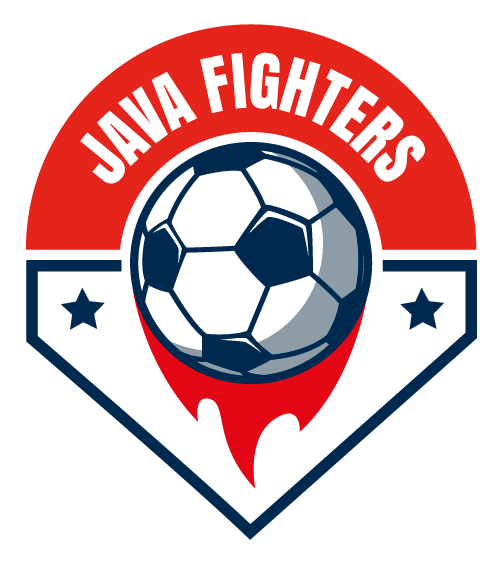
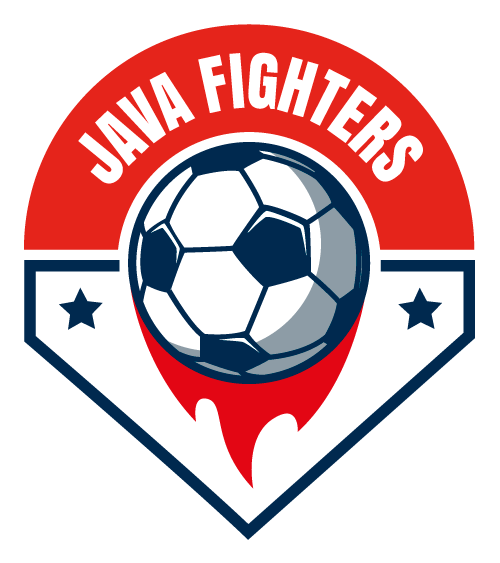
CSS restyling

diff --git a/public/style.css b/public/style.css
@@ -71,7 +71,7 @@ body {
 .main_logo {
 	display: block;
 	margin: 0 auto 10px;
-	width: 40%;
+	width: 35%;
 }
 
 .team_logo {
@@ -549,28 +549,92 @@ body {
 
 .logoTeamSmall {
 	width: 30%;
+	padding-left: 5%;
+	padding-right: 5%;
 }
 
-.ui-bar-b, .ui-page-theme-b .ui-bar-inherit, html .ui-bar-b .ui-bar-inherit, html .ui-body-b .ui-bar-inherit, html body .ui-group-theme-b .ui-bar-inherit {
-    background-color: #ffffffe0;
-    border: none;
-    color: #808080;
-    text-shadow: none;
-    font-weight: bold;
+.ui-bar-b,
+.ui-page-theme-b .ui-bar-inherit,
+html .ui-bar-b .ui-bar-inherit,
+html .ui-body-b .ui-bar-inherit,
+html body .ui-group-theme-b .ui-bar-inherit {
+	background-color: #ffffffe0;
+	border: none;
+	color: #808080;
+	text-shadow: none;
+	font-weight: bold;
 }
 
-.ui-page-theme-b .ui-btn, html .ui-bar-b .ui-btn, html .ui-body-b .ui-btn, html body .ui-group-theme-b .ui-btn, html head + body .ui-btn.ui-btn-b, .ui-page-theme-b .ui-btn:visited, html .ui-bar-b .ui-btn:visited, html .ui-body-b .ui-btn:visited, html body .ui-group-theme-b .ui-btn:visited, html head + body .ui-btn.ui-btn-b:visited {
-    background-color: #ffffffe0;
-    border: none;
-    color: #808080;
-    text-shadow: none;
+.ui-page-theme-b .ui-btn,
+html .ui-bar-b .ui-btn,
+html .ui-body-b .ui-btn,
+html body .ui-group-theme-b .ui-btn,
+html head + body .ui-btn.ui-btn-b,
+.ui-page-theme-b .ui-btn:visited,
+html .ui-bar-b .ui-btn:visited,
+html .ui-body-b .ui-btn:visited,
+html body .ui-group-theme-b .ui-btn:visited,
+html head + body .ui-btn.ui-btn-b:visited {
+	background-color: #ffffffe0;
+	border: none;
+	color: #808080;
+	text-shadow: none;
 	font-family: 'Raleway';
 	font-weight: 500 !important;
 }
 
-.ui-page-theme-b .ui-btn:hover, html .ui-bar-b .ui-btn:hover, html .ui-body-b .ui-btn:hover, html body .ui-group-theme-b .ui-btn:hover, html head + body .ui-btn.ui-btn-b:hover {
-    text-shadow: none;
+.ui-page-theme-b .ui-btn:hover,
+html .ui-bar-b .ui-btn:hover,
+html .ui-body-b .ui-btn:hover,
+html body .ui-group-theme-b .ui-btn:hover,
+html head + body .ui-btn.ui-btn-b:hover {
+	text-shadow: none;
 	background-color: #ffffffe0;
 	color: #808080;
-	
+
+}
+
+.ui-overlay-a,
+.ui-page-theme-a,
+.ui-page-theme-a .ui-panel-wrapper {
+	background-color: #eeeeee;
+	border-color: #8cc63f;
+	color: #ffffff;
+	text-shadow: 0 1px 0 #444444;
+}
+
+.ui-body-a,
+.ui-page-theme-a .ui-body-inherit,
+html .ui-bar-a .ui-body-inherit,
+html .ui-body-a .ui-body-inherit,
+html body .ui-group-theme-a .ui-body-inherit,
+html .ui-panel-page-container-a {
+	background-color: #eeeeee;
+	border-color: #eeeeee;
+	color: #666;
+	text-shadow: 0 1px 0 #eeeeee;
+}
+
+.ui-bar h1,
+.ui-bar h2,
+.ui-bar h3,
+.ui-bar h4,
+.ui-bar h5,
+.ui-bar h6 {
+	font-weight: 500;
+	text-transform: uppercase;
+}
+
+.ui-bar {
+	text-align: center;
+}
+
+.ui-bar-a,
+.ui-page-theme-a .ui-bar-inherit,
+html .ui-bar-a .ui-bar-inherit,
+html .ui-body-a .ui-bar-inherit,
+html body .ui-group-theme-a .ui-bar-inherit {
+	border-radius: 3px;
+	background-color: #929292;
+	border: none;
 }

diff --git a/public/index.html b/public/index.html
@@ -49,18 +49,18 @@
 		<!-- /header -->
 		<div data-role="main" class="ui-content">
 			<img class="main_logo" src="img/nysl_logo.png">
-			<div class="lastScoresHome custom-corners ui-corner-all">
+			<div class="lastScoresHome ui-corner-all">
 				<div class="ui-bar ui-bar-a">
 					<h4>Last Scores</h4>
 				</div>
 				<div id="last_scores_home" class="ui-body ui-body-a">
 				</div>
 			</div>
-			<div class="upcomingHome custom-corners ui-corner-all">
+			<div class="upcomingHome ui-corner-all">
 				<div class="ui-bar ui-bar-a">
 					<h4>Upcoming Matches</h4>
 				</div>
-				<div id="upcoming_matches" class="ui-body ui-body-a">
+				<div id="upcoming_matches">
 				</div>
 			</div>
 		</div>
@@ -164,18 +164,18 @@
 		<div data-role="main" class="ui-content team_page">
 			<img class="team_logo" src="img/teams/Fc_barcelona.png">
 			<p class="ui-body ui-body-a" id="team_description">Team description, history, etc...</p>
-			<div class="ui-corner-all custom-corners">
+			<div class="ui-corner-all">
 				<div class="ui-bar ui-bar-a">
 					<h4>Last Scores</h4>
 				</div>
 				<div id="team_last_scores" class="ui-body ui-body-a">
 				</div>
 			</div>
-			<div class="ui-corner-all custom-corners">
+			<div class="ui-corner-all ">
 				<div class="ui-bar ui-bar-a">
 					<h4>Next Match</h4>
 				</div>
-				<div id="team_next_match" class="ui-body ui-body-a">
+				<div id="team_next_match">
 				</div>
 			</div>
 			<div id="team_schedule_button">
@@ -205,7 +205,7 @@
 		<!-- /header -->
 		<div data-role="main" class="ui-content team_page">
 			<img class="team_logo" src="img/teams/Fc_barcelona.png">
-			<div class="ui-corner-all custom-corners">
+			<div class="ui-corner-all">
 				<div class="ui-bar ui-bar-a">
 					<h4>Full Game Schedule</h4>
 				</div>

diff --git a/public/nyslmobile.js b/public/nyslmobile.js
@@ -177,3 +177,7 @@ var mainData = {
     }
     ]
 };
+
+
+
+
